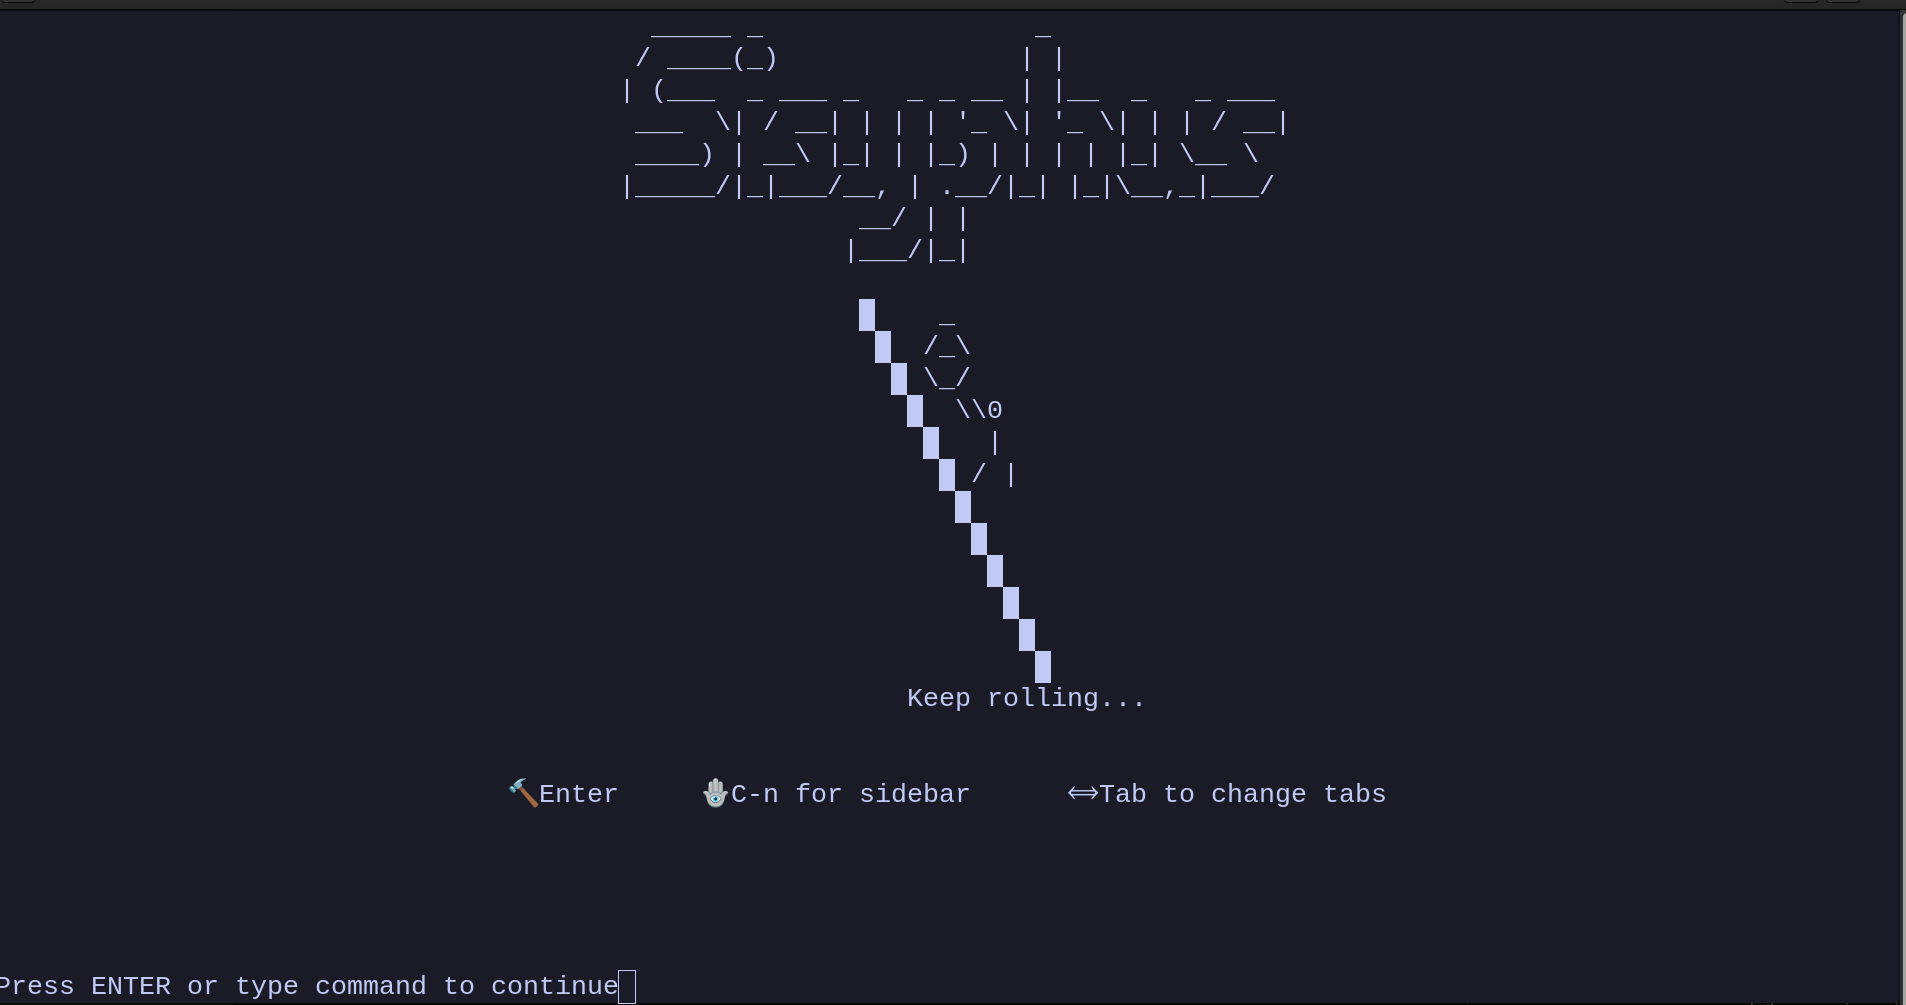
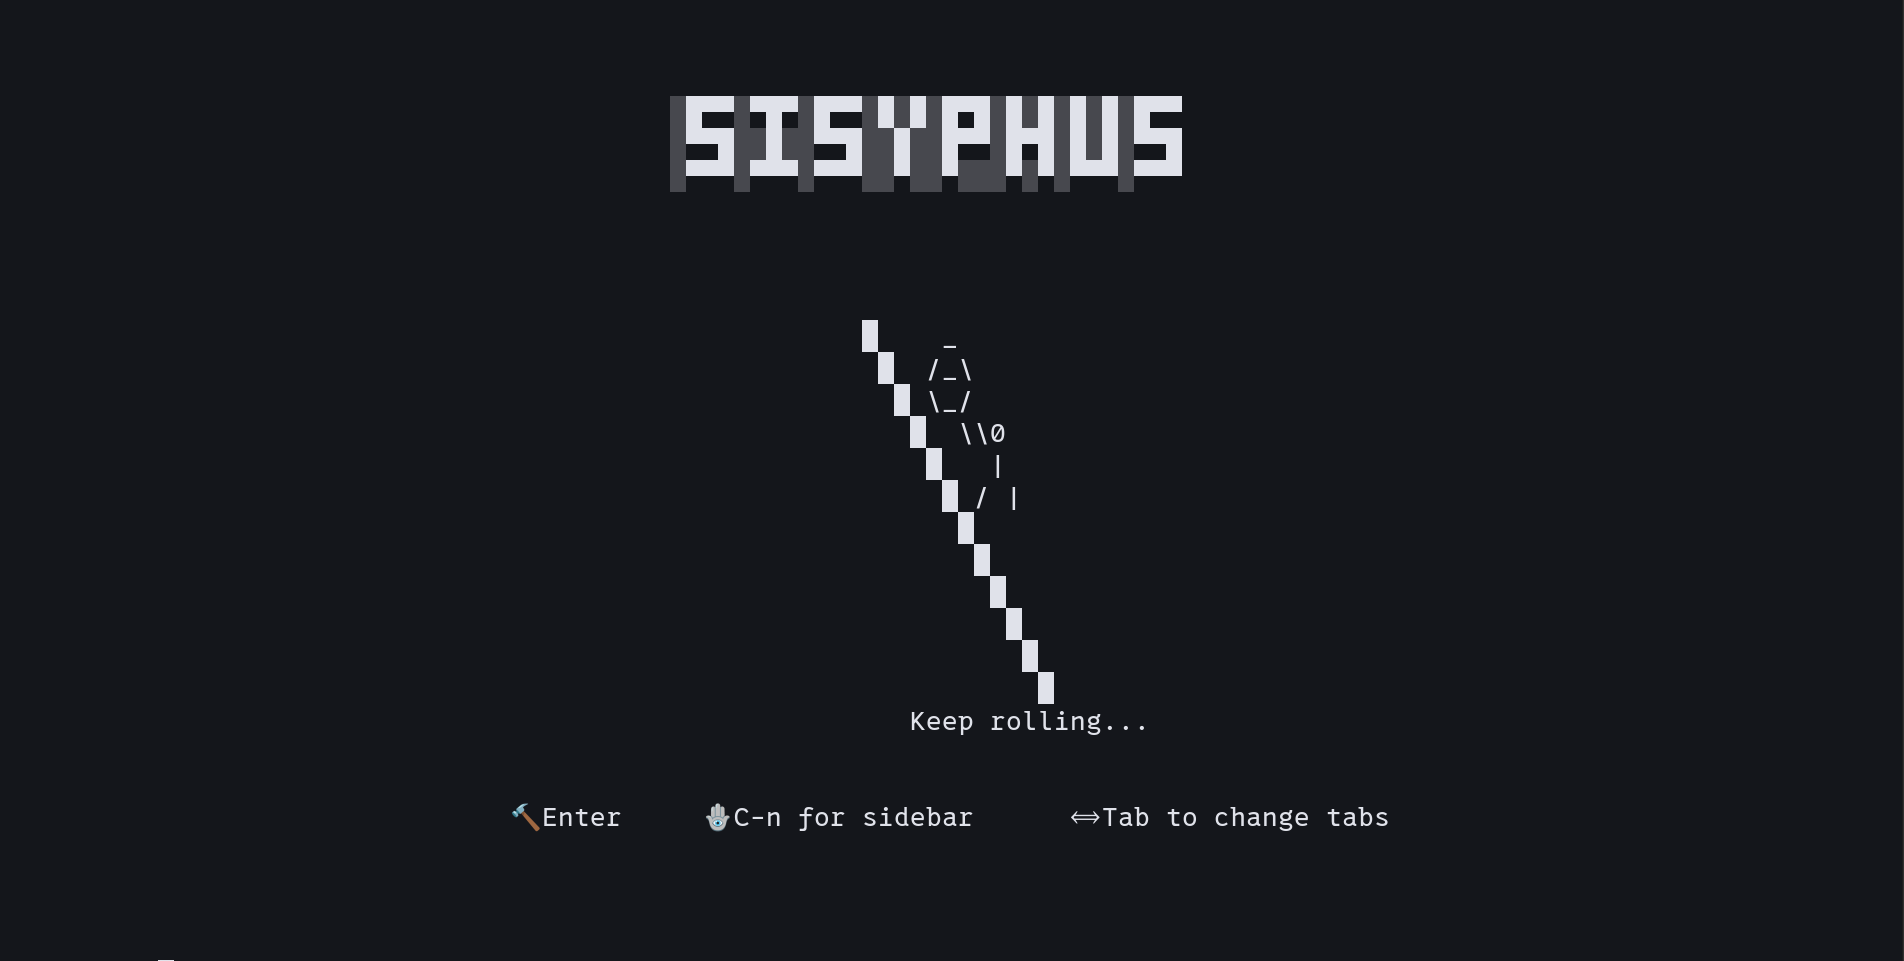
[Update:docs]

diff --git a/README.md b/README.md
@@ -5,7 +5,7 @@ A minimal nvim config drawn inspiration of Greek Mythical creature Sisyphus, who
 It is a reminder for pursuit of refining our tools, knowing that perfection is unattainable yet striving for improvement nonetheless. This Neovim configuration embracesthe ethos of embracing the absurdity of our efforts while finding meaning in the process.
 
 # Dashboard
-![Dash](https://github.com/Aashish1-1-1/Sisyphus/blob/main/image/dash2.png)
+![Dash](./image/dash.png)
 
 ---
 Keep rolling the boulder, for it is in the struggle itself that we find purpose.
@@ -25,6 +25,6 @@ Keep rolling the boulder, for it is in the struggle itself that we find purpose.
 
 # To Try
 ```bash 
-git clone https://github.com/Aashish1-1-1/Sisyphus 
-mv Sisyphus ~/.config/nvim
+mv ~/.config/nvim ~/.config/nvim_backup
+git clone https://github.com/Aashish1-1-1/Sisyphus  ~/.config/nvim
 ```
